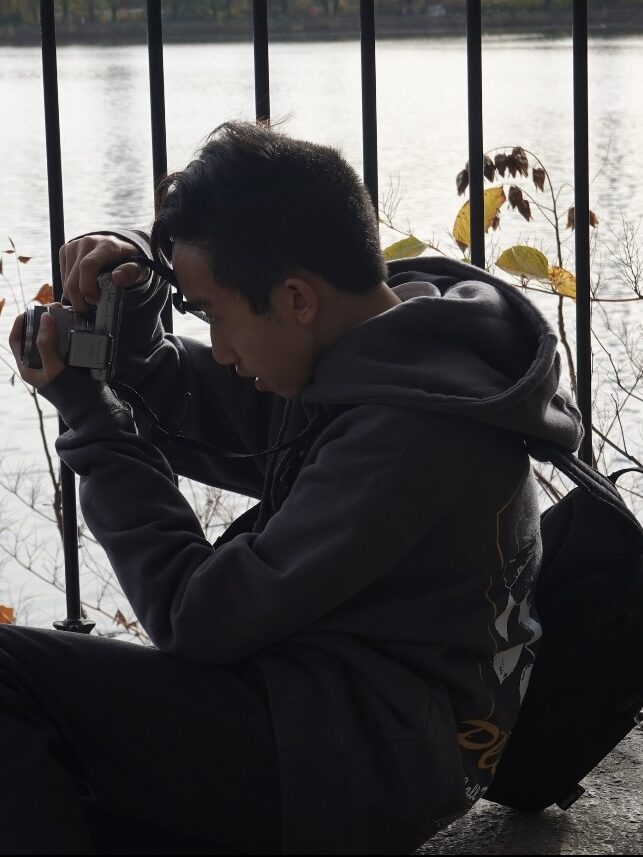
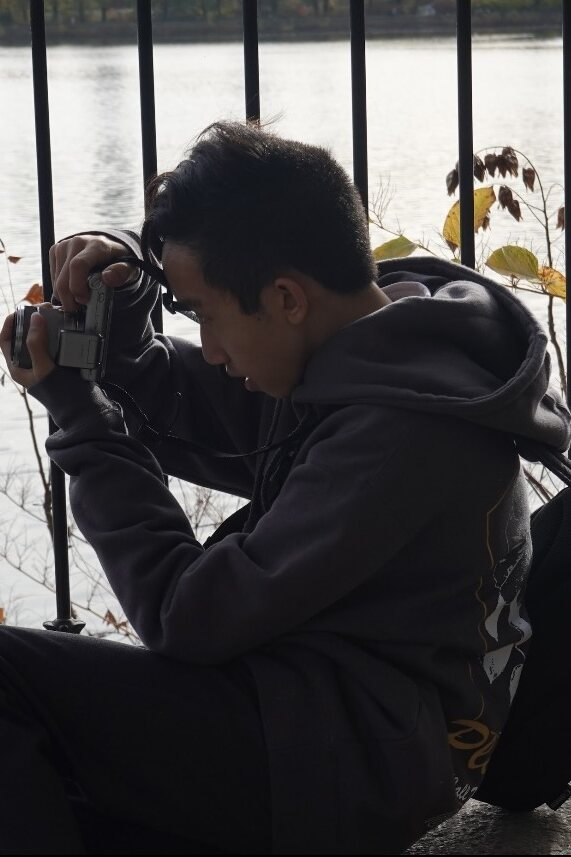
About: center blurb + photos; angled collage, same 2:3 shape, basketball uncropped

diff --git a/style.css b/style.css
@@ -691,7 +691,7 @@ body { overflow-x: clip; }
   left: var(--anchor, 20vw);
   top: 50%;
   width: min(34rem, calc(100vw - var(--anchor, 20vw) - 1.5rem));
-  transform: translateY(-50%);
+  transform: translate(-50%, -50%);
   text-align: left;
   opacity: 0;
   visibility: hidden;
@@ -704,22 +704,28 @@ body { overflow-x: clip; }
   pointer-events: auto;
   transition: opacity 0.6s ease 0.2s, transform 0.8s cubic-bezier(0.2, 0, 0, 1) 0.2s, visibility 0s;
 }
-.hero:not(.intro-on) .intro { transform: translateY(calc(-50% - 20px)); }
+.hero:not(.intro-on) .intro { transform: translate(-50%, calc(-50% - 20px)); }
 .intro-label { display: block; margin-bottom: 1.4rem; }
-/* Two photos of Christian side by side, to the right of the blurb, both fully visible */
+/* The blurb and two photos of Christian, centered on the page together; the photos share
+   the basketball photo's 2:3 shape and are angled like a small collage, both fully visible */
 .intro {
   display: grid;
-  grid-template-columns: minmax(0, 34rem) auto;
-  column-gap: clamp(2rem, 4vw, 4rem);
+  grid-template-columns: minmax(0, 32rem) auto;
+  column-gap: clamp(2rem, 4.5vw, 4.5rem);
   align-items: center;
-  width: min(66rem, calc(100vw - var(--anchor, 20vw) - 1.5rem));
+  left: 50%;
+  width: max-content;
+  max-width: calc(100vw - 3rem);
 }
 .intro > :not(.intro-photos) { grid-column: 1; justify-self: start; }
-.intro-photos { grid-column: 2; grid-row: 1 / span 3; display: flex; gap: 1rem; }
+.intro-photos { grid-column: 2; grid-row: 1 / span 3; display: flex; align-items: center; gap: clamp(1rem, 2vw, 1.6rem); padding: 1rem 0.5rem; }
 .intro-photos img {
-  height: min(19rem, 40vh, 21vw); width: auto; aspect-ratio: 3 / 4;
+  height: min(22rem, 46vh, 24vw); width: auto; aspect-ratio: 2 / 3;
   object-fit: cover; border-radius: var(--radius); display: block;
+  box-shadow: 0 10px 26px rgba(0, 0, 0, 0.16);
 }
+.intro-photos img:first-child { transform: rotate(-4deg) translateY(-0.8rem); }
+.intro-photos img:last-child { transform: rotate(3.5deg) translateY(1.2rem); }
 .intro-text p:first-child { font-size: clamp(1.2rem, 1.9vw, 1.6rem); line-height: 1.45; }
 .intro-text p + p { margin-top: 1.2rem; font-size: 1rem; line-height: 1.6; opacity: 0.7; }
 .intro-go { margin-top: 1.8rem; padding: 0.3rem 0; background: none; border: 0; color: inherit; opacity: 0.75; transition: opacity 0.2s; }
@@ -731,8 +737,9 @@ body { overflow-x: clip; }
   .intro-text p + p { font-size: 0.95rem; }
   /* Phones: the photos sit above the text, smaller */
   .intro { grid-template-columns: minmax(0, 1fr); }
-  .intro-photos { grid-column: 1; grid-row: auto; margin-bottom: 1.6rem; gap: 0.6rem; }
-  .intro-photos img { height: 9.5rem; }
+  .intro { width: calc(100vw - 3rem); }
+  .intro-photos { grid-column: 1; grid-row: auto; margin-bottom: 1.2rem; gap: 1rem; padding: 0.8rem 0.4rem; }
+  .intro-photos img { height: 11rem; }
 }
 @media (prefers-reduced-motion: reduce) {
   .intro, .hero.intro-on .intro { transition: none; }

diff --git a/index.html b/index.html
@@ -30,10 +30,10 @@
         <!-- The landing opens with this blurb; the filmstrip takes its place on the first move (strip.js) -->
         <div class="intro" id="intro">
           <span class="intro-label mono">(About)</span>
-          <!-- Two photos of Christian, side by side beside the blurb -->
+          <!-- Two photos of Christian, angled like a small collage beside the blurb -->
           <div class="intro-photos">
-            <img src="images/about/basketball.jpg" alt="Christian Moy shooting a free throw" width="870" height="1160">
-            <img src="images/about/camera.jpg" alt="Christian Moy taking photos by the reservoir" width="643" height="857">
+            <img src="images/about/basketball.jpg" alt="Christian Moy shooting a free throw" width="933" height="1400">
+            <img src="images/about/camera.jpg" alt="Christian Moy taking photos by the reservoir" width="571" height="857">
           </div>
           <div class="intro-text">
             <p>If we're friends, there's a good chance I've made you something: a custom basketball, a hand-painted jean jacket, an embroidered shirt that took way longer than I said it would, a woodworking project I could never stop redesigning. Making things for people is my favorite reason to create.</p>
